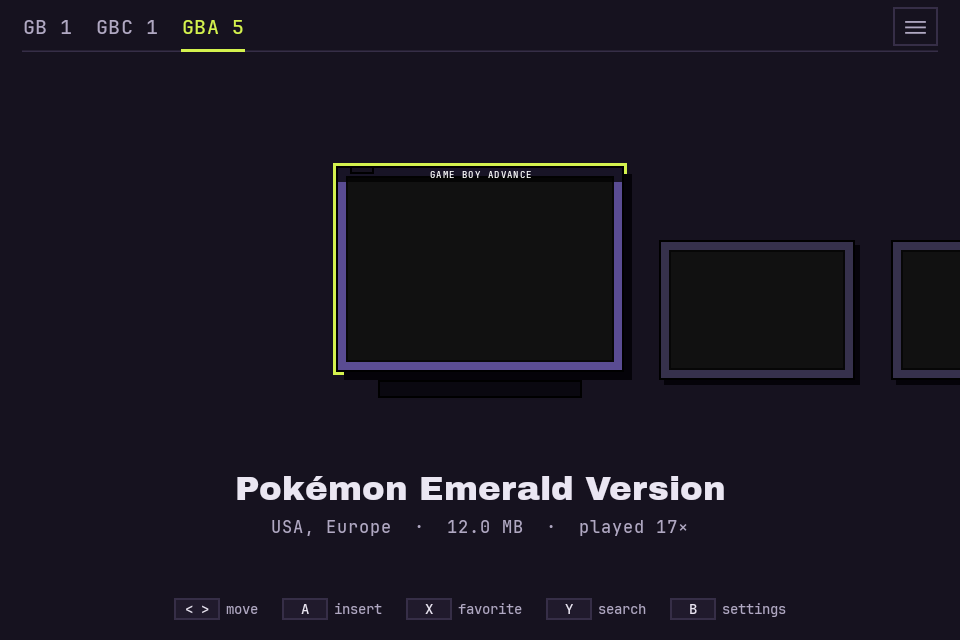
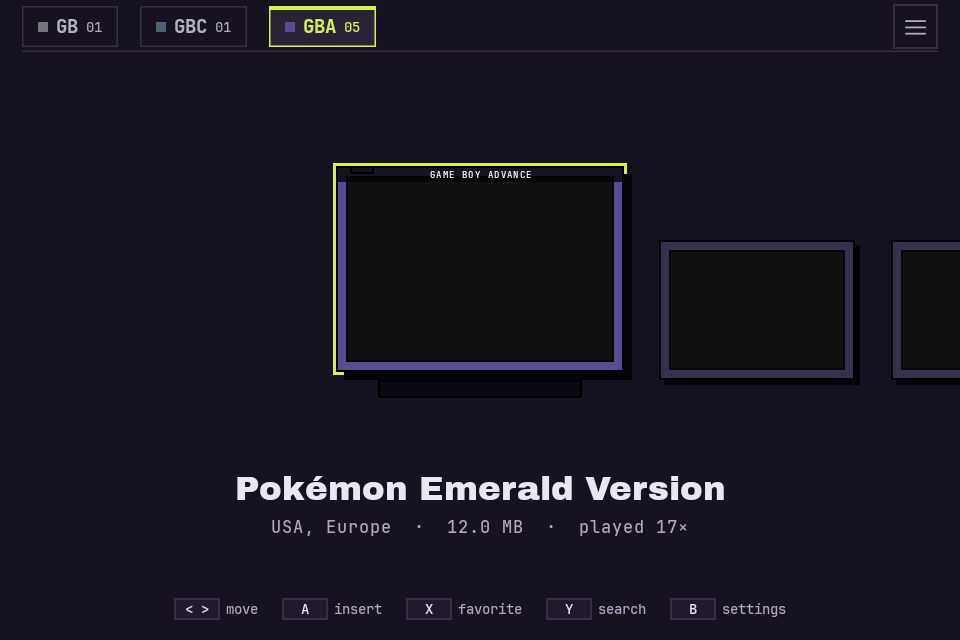
fix tab switch (index relatif per sistem), tab pod ala console launcher + L1/R1 ganti sistem

Changed region(s): [[0.0, 0.0, 0.4062, 0.0938], [0.9375, 0.0, 0.9688, 0.0938]]

diff --git a/android/app/src/main/java/id/iqbaldev/kartrid/ui/ShelfScreen.kt b/android/app/src/main/java/id/iqbaldev/kartrid/ui/ShelfScreen.kt
@@ -177,8 +177,8 @@ fun ShelfScreen(
                 when (ev.nativeKeyEvent.keyCode) {
                     AKey.KEYCODE_DPAD_LEFT -> { move(-1); sfx.tick(); true }
                     AKey.KEYCODE_DPAD_RIGHT -> { move(1); sfx.tick(); true }
-                    AKey.KEYCODE_BUTTON_L1 -> { move(-5); sfx.tick(); true }
-                    AKey.KEYCODE_BUTTON_R1 -> { move(5); sfx.tick(); true }
+                    AKey.KEYCODE_BUTTON_L1 -> { val i = Sys.order.indexOf(tab); onTab(Sys.order[(i + 2) % 3]); sfx.tick(); true }
+                    AKey.KEYCODE_BUTTON_R1 -> { val i = Sys.order.indexOf(tab); onTab(Sys.order[(i + 1) % 3]); sfx.tick(); true }
                     AKey.KEYCODE_BUTTON_A, AKey.KEYCODE_DPAD_CENTER, AKey.KEYCODE_ENTER -> { play(); true }
                     AKey.KEYCODE_BUTTON_X -> { current?.let { onFav(it); sfx.tick() }; true }
                     AKey.KEYCODE_BUTTON_Y -> { onSearch(); sfx.tick(); true }
@@ -274,25 +274,42 @@ fun ShelfScreen(
                 .height(TOP_H.dp)
                 .padding(horizontal = 22.dp)
                 .drawBehind { drawRect(T.hairline, topLeft = Offset(0f, size.height - 1.5f), size = Size(size.width, 1.5f)) },
-            verticalAlignment = Alignment.Bottom,
+            verticalAlignment = Alignment.CenterVertically,
             horizontalArrangement = Arrangement.spacedBy(22.dp),
         ) {
             for (s in Sys.order) {
                 val on = s == tab
-                Box(
+                Row(
                     Modifier
                         .clickable { onTab(s); sfx.tick() }
                         .drawBehind {
-                            if (on) drawRect(T.lime, topLeft = Offset(0f, size.height - 3f), size = Size(size.width, 3f))
+                            // pod angular ala console launcher (bukan underline web)
+                            if (on) drawRect(T.muted)
+                            val e = if (on) T.lime else T.hairline
+                            drawRect(e, topLeft = Offset(0f, 0f), size = Size(size.width, 1.5f))
+                            drawRect(e, topLeft = Offset(0f, size.height - 1.5f), size = Size(size.width, 1.5f))
+                            drawRect(e, topLeft = Offset(0f, 0f), size = Size(1.5f, size.height))
+                            drawRect(e, topLeft = Offset(size.width - 1.5f, 0f), size = Size(1.5f, size.height))
+                            if (on) drawRect(T.lime, topLeft = Offset(0f, 0f), size = Size(size.width, 4f))
                         }
-                        .padding(top = 10.dp, bottom = 12.dp),
+                        .padding(horizontal = 16.dp, vertical = 8.dp),
+                    verticalAlignment = Alignment.CenterVertically,
                 ) {
+                    Box(Modifier.size(10.dp, 10.dp).background(shellColor(s.shell, on)))
+                    Box(Modifier.width(8.dp))
                     Text(
-                        text = "${s.label} ${counts[s.key] ?: 0}",
+                        text = s.label,
+                        color = if (on) T.lime else T.fg.copy(alpha = 0.75f),
+                        fontFamily = MONO,
+                        fontSize = 15.sp,
+                        fontWeight = FontWeight.Bold,
+                    )
+                    Box(Modifier.width(8.dp))
+                    Text(
+                        text = (counts[s.key] ?: 0).toString().padStart(2, '0'),
                         color = if (on) T.lime else T.mutedFg,
                         fontFamily = MONO,
-                        fontSize = 16.sp,
-                        letterSpacing = 1.2.sp,
+                        fontSize = 11.sp,
                     )
                 }
             }
@@ -303,14 +320,12 @@ fun ShelfScreen(
                     text = scanNote.ifBlank { "scanning…" },
                     color = T.mutedFg,
                     fontFamily = MONO,
-                    fontSize = 10.5.sp,
-                    modifier = Modifier.padding(bottom = 10.dp),
+                    fontSize = 11.sp,
                 )
             }
             Box(
                 Modifier
                     .size(30f.tdp)
-                    .padding(bottom = 6.dp)
                     .border(1.5.dp, T.hairline)
                     .clickable { onSettings(); sfx.tick() }
                     .drawBehind {

diff --git a/android/app/src/main/java/id/iqbaldev/kartrid/MainActivity.kt b/android/app/src/main/java/id/iqbaldev/kartrid/MainActivity.kt
@@ -255,9 +255,10 @@ private fun KartridRoot(
         if (permOk) runScan()
     }
 
+    // index di sini = index RELATIF ke daftar visible per sistem (difilter di bawah).
+    // Jangan pakai index list penuh — itu bikin kursor mendarat salah pas ganti tab.
     LaunchedEffect(tab) {
-        val first = games.indexOfFirst { it.system == tab.key && !it.hidden }
-        index = if (first >= 0) first else 0
+        index = 0
     }
 
     val counts = remember(games) {
